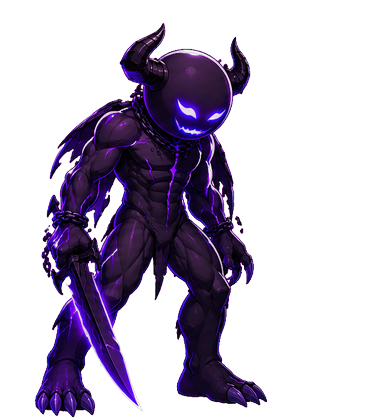
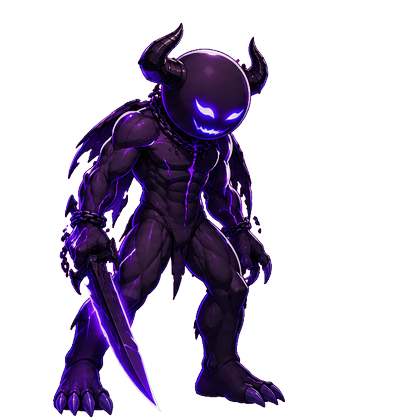
v0.5.0.0224: 각성 그림자 2페이즈 그림 4종 추가, 1페이즈 그림 재정렬
Claude-Session: https://claude.ai/code/session_01XgMamwA2MFesNFKDoCmsPA

Changed region(s): [[0.0873, 0.0619, 0.7275, 0.9905]]

diff --git a/index.html b/index.html
@@ -725,7 +725,7 @@ body.hud-norank #dmgRank,body.hud-nocombo #combo{display:none!important}
   </div>
 
   <section class="screen" id="sTitle">
-    <div class="ver" id="verT">v0.5.0.0223</div>
+    <div class="ver" id="verT">v0.5.0.0224</div>
     <button class="gearT" id="bSet" aria-label="메뉴"><svg viewBox="0 0 24 24" width="24" height="24" fill="none" stroke="currentColor" stroke-width="2.2" stroke-linecap="round" aria-hidden="true"><path d="M4 7h16M4 12h16M4 17h16"/></svg><i class="mnew" id="menuB" hidden>NEW</i></button>
     <div class="eyebrow">DARK GUARDIAN</div>
     <h1>어둠의 수호자</h1>

diff --git a/CLAUDE.md b/CLAUDE.md
@@ -1,3 +1,3 @@
 # 개발 규칙
 - 게임 밸런스/수치(확률, 데미지, 비용, 쿨타임, 드랍 등)를 바꿀 때마다 `patchnotes.txt` 맨 위에 해당 버전 항목을 추가하고 바뀐 수치를 간략히 적는다. 표기는 "변경: 120% → 90%", "상향: 3 → 5", "하향: …", "수정: …", "추가: …"처럼 쓴다("이전 → 이후:" 문구는 쓰지 않는다. 필요하면 "이전: A → 이후: B" 형태는 가능). (인게임 메뉴·설정·시작화면 버전 글자에서 이 파일을 보여줌)
-- 버전은 `0.5.0.NNNN` (빌드 번호 = 커밋 수 − 70, 0.4.0.0124 다음부터 0.4.1.0125 → 0.4.2.0128 → 0.4.2.0129 → 0.4.2.0130 → 0.4.2.0131 → 0.4.2.0132 → 0.4.2.0133 → 0.4.2.0134 → 0.4.2.0135 → 0.4.2.0136 → 0.4.2.0137 → 0.4.2.0138 → 0.4.2.0139 → 0.4.2.0140 → 0.4.2.0141 → 0.4.2.0142 → 0.4.2.0143 → 0.4.2.0144 → 0.4.2.0145 → 0.4.2.0146 → 0.4.2.0147 → 0.4.2.0148 → 0.4.2.0149 → 0.4.3.0150 → 0.4.3.0151 → 0.4.3.0152 → 0.4.3.0153 → 0.4.3.0154 → 0.4.3.0155 → 0.4.3.0156 → 0.4.3.0157 → 0.4.3.0158 → 0.4.3.0159 → 0.4.3.0160 → 0.4.3.0161 → 0.4.3.0162 → 0.4.3.0163 → 0.4.3.0164 → 0.4.3.0165 → 0.4.3.0166 → 0.4.3.0167 → 0.4.4.0168 → 0.4.4.0169 → 0.4.4.0170 → 0.4.4.0171 → 0.4.4.0172 → 0.4.4.0173 → 0.4.5.0174 → 0.4.5.0175 → 0.4.5.0176 → 0.4.5.0177 → 0.4.5.0178 → 0.4.5.0179 → 0.4.5.0180 → 0.4.6.0181 → 0.4.6.0182 → 0.4.6.0183 → 0.4.6.0184 → 0.4.6.0185 → 0.4.6.0186 → 0.4.6.0187 → 0.4.6.0188 → 0.4.6.0189 → 0.4.6.0190 → 0.4.6.0191 → 0.4.6.0192 → 0.4.6.0193 → 0.4.6.0194 → 0.4.6.0195 → 0.4.6.0196 → 0.4.7.0197 → 0.4.7.0198 → 0.4.7.0199 → 0.4.7.0200 → 0.4.7.0201 → 0.4.7.0202 → 0.4.7.0203 → 0.4.7.0204 → 0.4.7.0205 → 0.4.7.0206 → 0.4.7.0207 → 0.4.7.0208 → 0.5.0.0209 → 0.5.0.0210 → 0.5.0.0211 → 0.5.0.0212 → 0.5.0.0213 → 0.5.0.0214 → 0.5.0.0215 → 0.5.0.0216 → 0.5.0.0217 → 0.5.0.0218 → 0.5.0.0219 → 0.5.0.0220 → 0.5.0.0221 → 0.5.0.0222 → 0.5.0.0223로 이어서 증가). 커밋 때 patchnotes.txt의 버전 번호도 맞춘다.
+- 버전은 `0.5.0.NNNN` (빌드 번호 = 커밋 수 − 70, 0.4.0.0124 다음부터 0.4.1.0125 → 0.4.2.0128 → 0.4.2.0129 → 0.4.2.0130 → 0.4.2.0131 → 0.4.2.0132 → 0.4.2.0133 → 0.4.2.0134 → 0.4.2.0135 → 0.4.2.0136 → 0.4.2.0137 → 0.4.2.0138 → 0.4.2.0139 → 0.4.2.0140 → 0.4.2.0141 → 0.4.2.0142 → 0.4.2.0143 → 0.4.2.0144 → 0.4.2.0145 → 0.4.2.0146 → 0.4.2.0147 → 0.4.2.0148 → 0.4.2.0149 → 0.4.3.0150 → 0.4.3.0151 → 0.4.3.0152 → 0.4.3.0153 → 0.4.3.0154 → 0.4.3.0155 → 0.4.3.0156 → 0.4.3.0157 → 0.4.3.0158 → 0.4.3.0159 → 0.4.3.0160 → 0.4.3.0161 → 0.4.3.0162 → 0.4.3.0163 → 0.4.3.0164 → 0.4.3.0165 → 0.4.3.0166 → 0.4.3.0167 → 0.4.4.0168 → 0.4.4.0169 → 0.4.4.0170 → 0.4.4.0171 → 0.4.4.0172 → 0.4.4.0173 → 0.4.5.0174 → 0.4.5.0175 → 0.4.5.0176 → 0.4.5.0177 → 0.4.5.0178 → 0.4.5.0179 → 0.4.5.0180 → 0.4.6.0181 → 0.4.6.0182 → 0.4.6.0183 → 0.4.6.0184 → 0.4.6.0185 → 0.4.6.0186 → 0.4.6.0187 → 0.4.6.0188 → 0.4.6.0189 → 0.4.6.0190 → 0.4.6.0191 → 0.4.6.0192 → 0.4.6.0193 → 0.4.6.0194 → 0.4.6.0195 → 0.4.6.0196 → 0.4.7.0197 → 0.4.7.0198 → 0.4.7.0199 → 0.4.7.0200 → 0.4.7.0201 → 0.4.7.0202 → 0.4.7.0203 → 0.4.7.0204 → 0.4.7.0205 → 0.4.7.0206 → 0.4.7.0207 → 0.4.7.0208 → 0.5.0.0209 → 0.5.0.0210 → 0.5.0.0211 → 0.5.0.0212 → 0.5.0.0213 → 0.5.0.0214 → 0.5.0.0215 → 0.5.0.0216 → 0.5.0.0217 → 0.5.0.0218 → 0.5.0.0219 → 0.5.0.0220 → 0.5.0.0221 → 0.5.0.0222 → 0.5.0.0223 → 0.5.0.0224로 이어서 증가). 커밋 때 patchnotes.txt의 버전 번호도 맞춘다.
